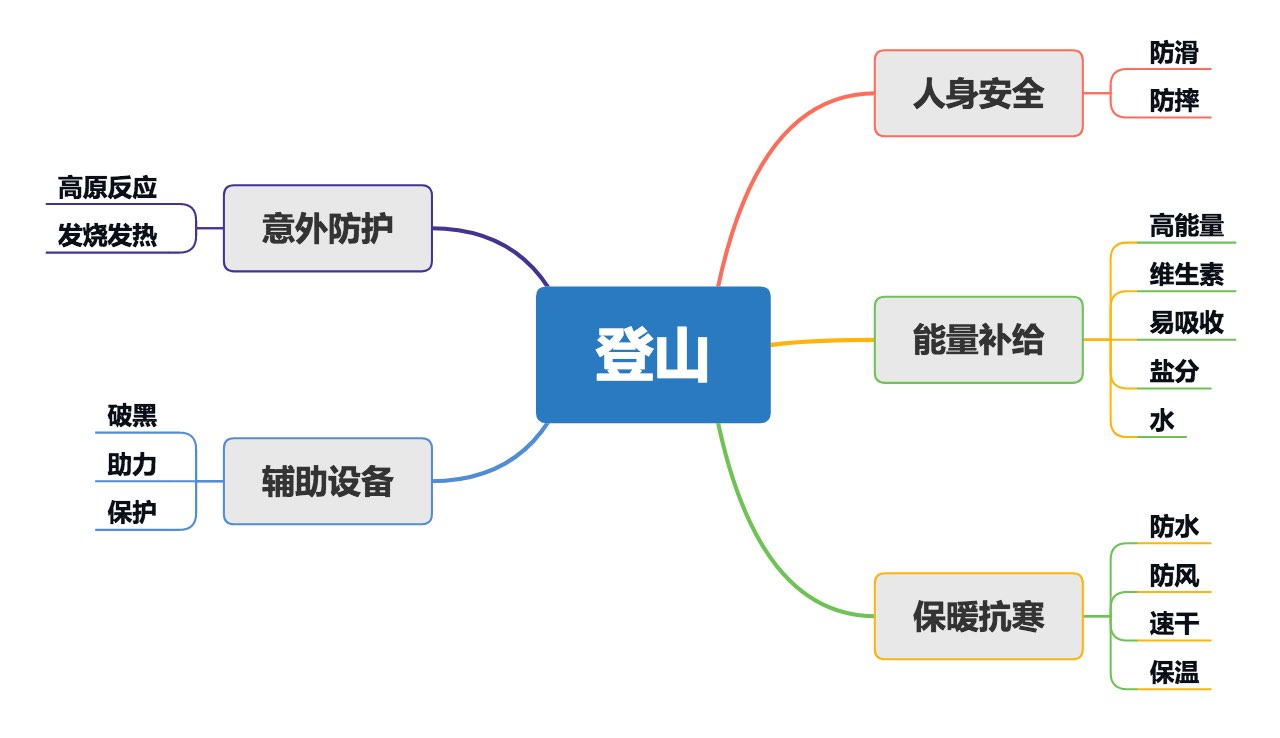
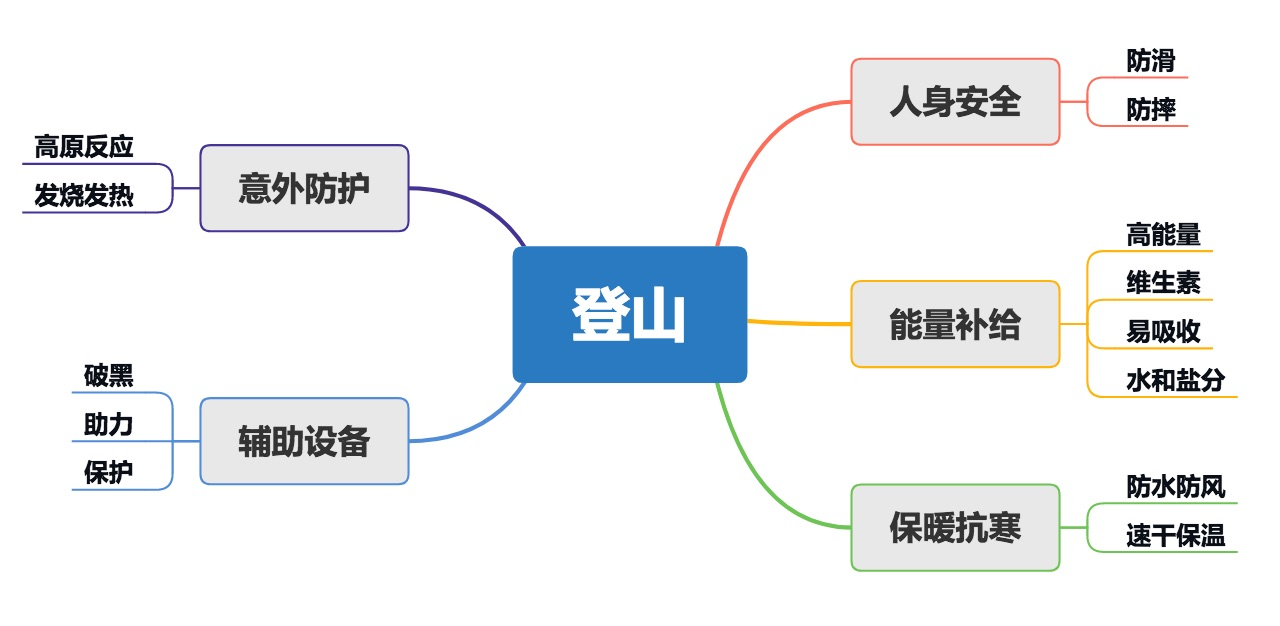
Update

Changed region(s): [[0.0, 0.2125, 0.9688, 0.9409], [0.5938, 0.0304, 0.9375, 0.2428], [0.5625, 0.2428, 0.5938, 0.3035]]

diff --git a/_posts/fitness/2018-09-14-climb-to-top-of-taibai-mountains.md b/_posts/fitness/2018-09-14-climb-to-top-of-taibai-mountains.md
@@ -80,11 +80,15 @@ author: "袁慎建"
 
 *登山鞋：*登山鞋鞋底硬，配有防滑抓地设计，走在湿面的石头路上抓地也很强，不容易摔滑，尤其是走在栈道般的石头路，侧滑了后果不敢设想。
 
-冲锋衣：防风防雨，有利于保持体温和防水，一般都会带有帽子，可以防止寒风久吹引起的头痛。
+*冲锋衣：*防风防雨，有利于保持体温和防水，一般都会带有帽子，可以防止寒风久吹引起的头痛。
+
+*登山包：*登山包的设计有几个独到之处：首先，背部拱起能够通风隔热，不想普通包贴着被捂得严实容易出汗。其次，拱起到底部配合底部的腰带可以借助核心力量来分担背包重量，还能够稳定背包，降低危险。
+
 
 *防泼水长裤：*防小雨，防风，防寒气。这次我在登山过程因为没有感觉到冷，上山全程速干长裤，结果晚上体内寒气非常重引起头疼，所以建议天气不好的时候穿上，防止寒气入侵。
 
 *速干衣：*因为负重，登山过程中难免会发热出汗，速干衣服的好处是能够快速干，不会带走大量身体热量，不想棉质衣服，一旦凉了很冷，容易室温。
+
 
 路途中，有穿拖鞋和凉鞋的游客，还有穿短裤和T恤，虽然少数也抵达了大爷海，但都很冷，到大通铺后得立马用被子裹着，对于穿凉鞋的，我的建议是不要穿凉鞋和拖鞋，不是说穿了一定会出事，但是危险的概率就会提升很多，另外对身体伤害也较大。
 
@@ -119,6 +123,13 @@ author: "袁慎建"
 
 如果你是一位新手，不妨参照这几个维度来设计自己的登山行程，如果你是一位有经验的爬山爱好者，非常欢迎留言交流指教。
 
+除了这几个客观的维度，我想再强调一个非常重要的主观维度 -- 身体素质，主要包含三个方面：
+
+1. 核心稳定
+2. 肌肉耐力
+3. 肌肉力量
+
+建议平时多练练瑜伽、HIIT、搏击操、器械力量来加强身体素质。
 
 ---
 
@@ -141,7 +152,7 @@ author: "袁慎建"
 
 以及一个重点：
 
-1. 如果你是一名非户外爱好者或专业者，想挑战大自然，即便是人工开发的旅游路线，也建议事先做些准备，安全第一，还请保护好自己。
+***如果你是一名非户外爱好者或专业者，想挑战大自然，即便是人工开发的旅游路线，也建议事先做些准备，安全第一，还请保护好自己。***
 
 ---
 
